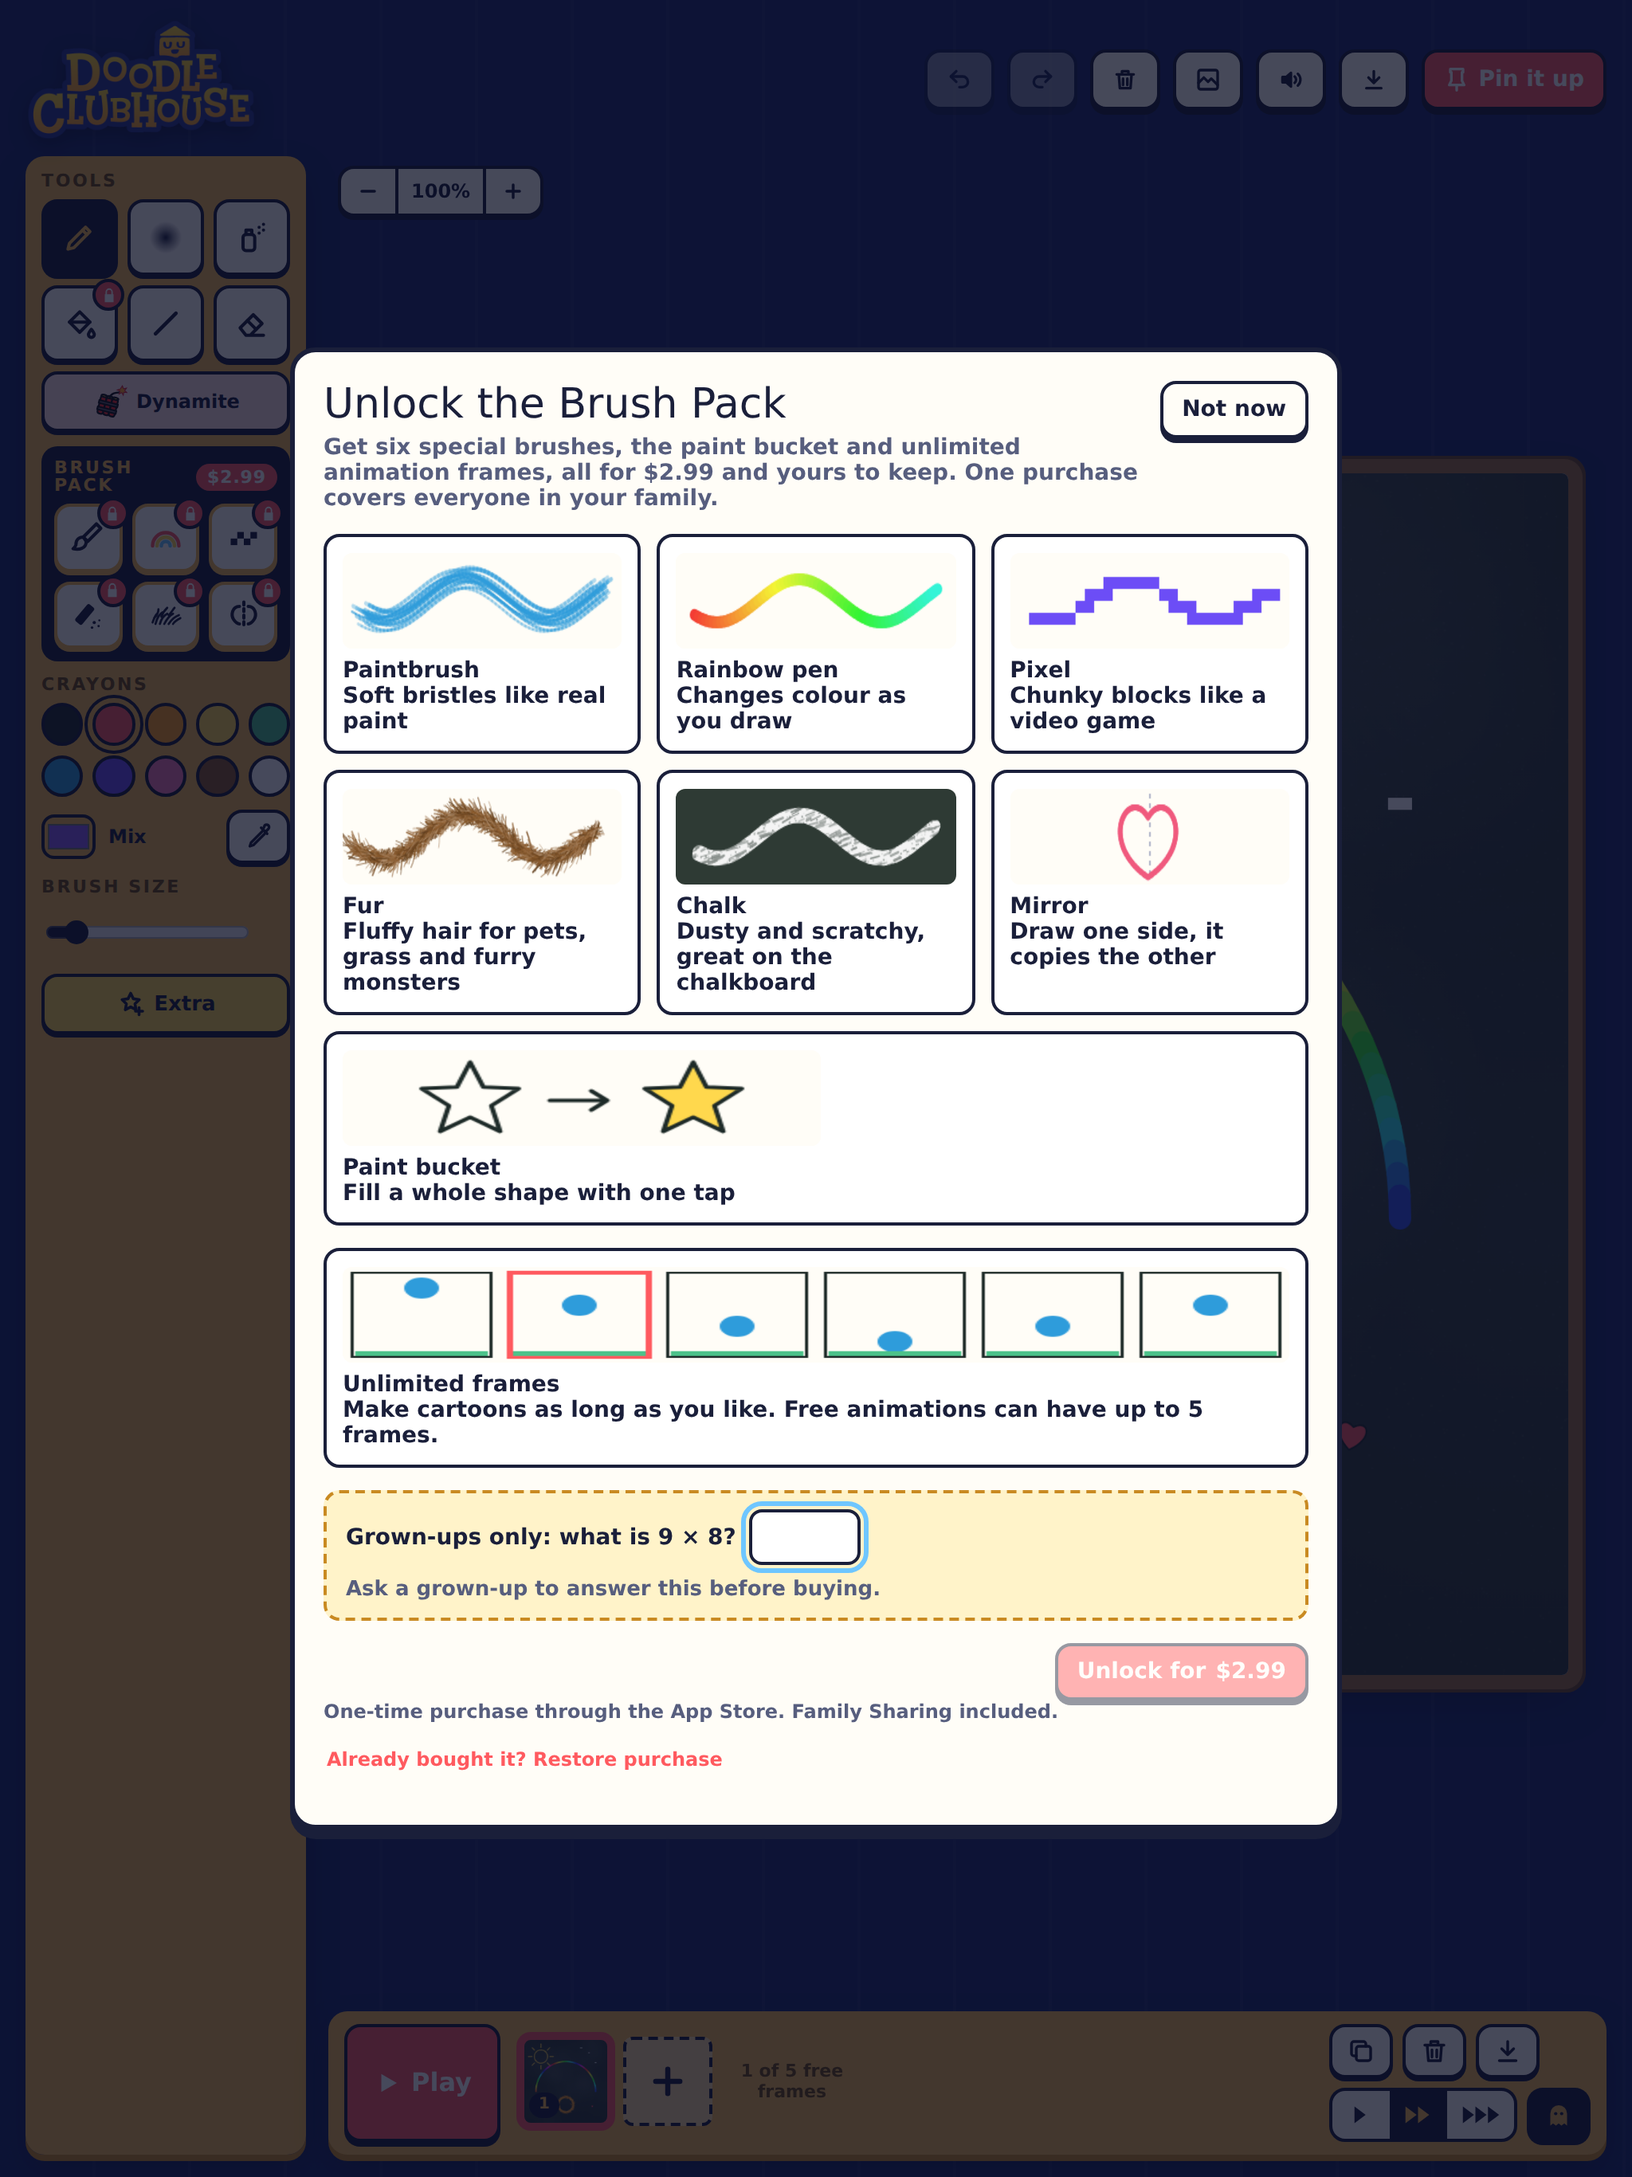
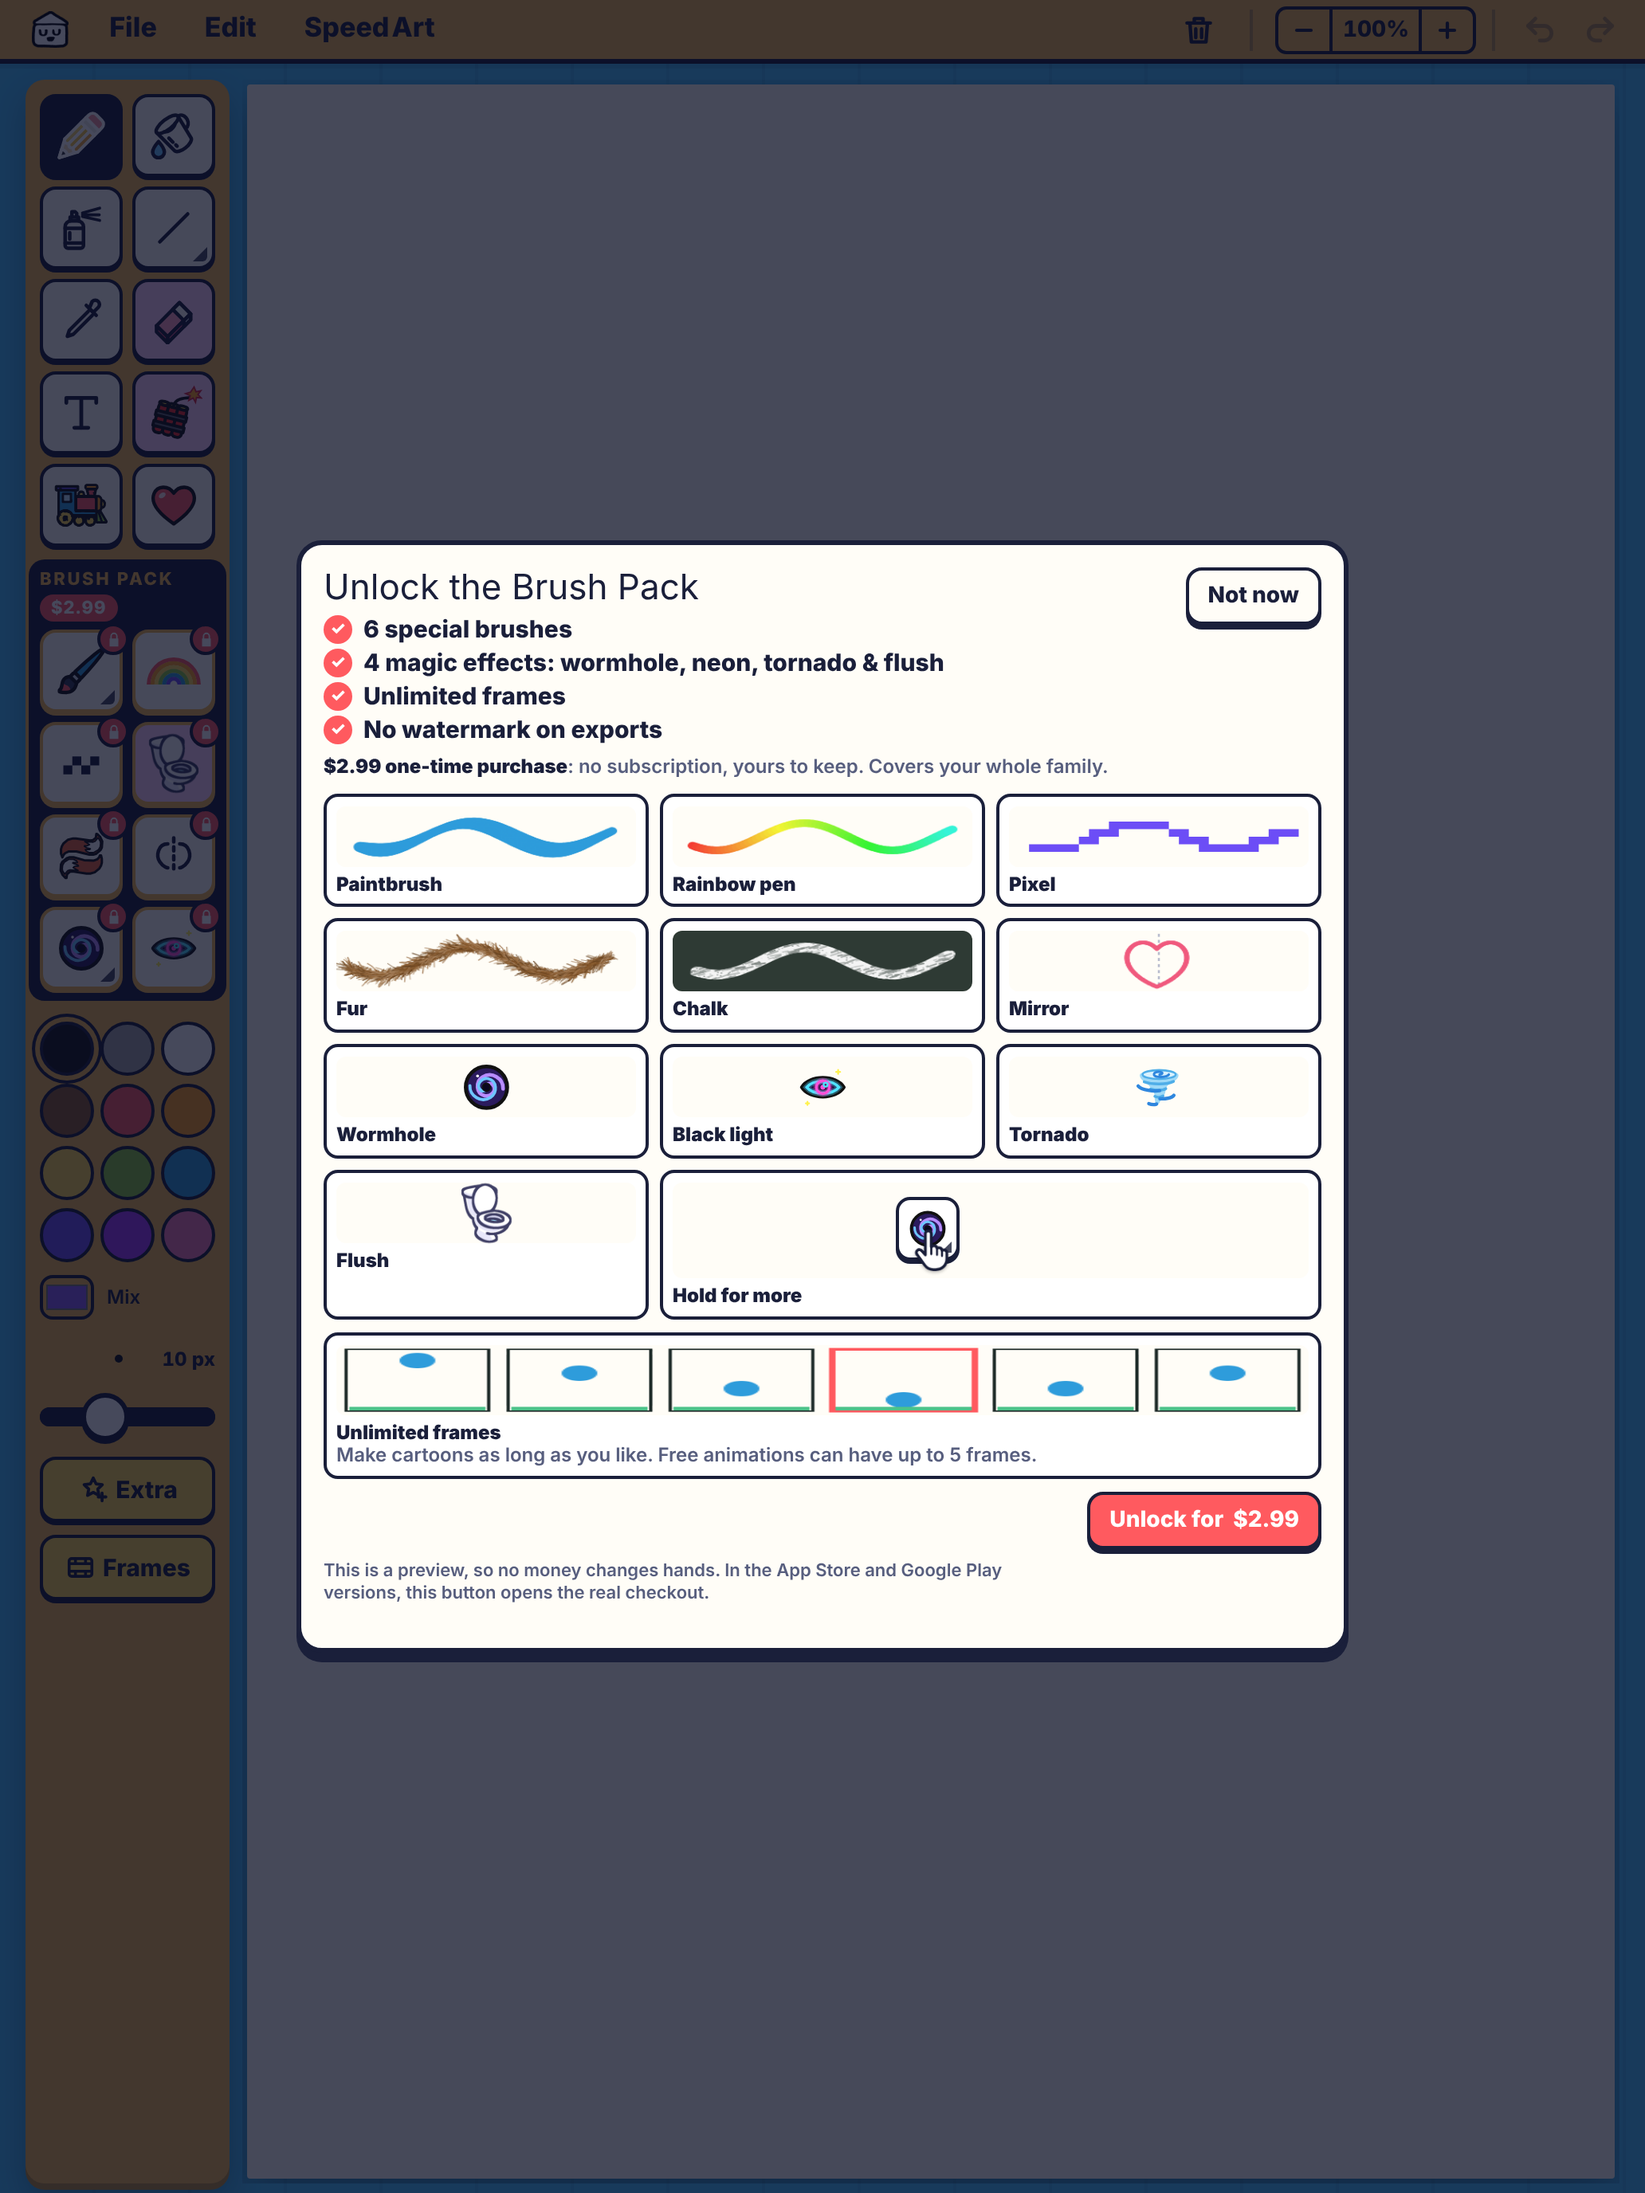
App Store listing for all ages, new screenshots and purchase review screenshot
Claude-Session: https://claude.ai/code/session_01QZ4DRegBmAdsTvPSvVEQXu

diff --git a/doodle-clubhouse-app/store/STORE-LISTING.md b/doodle-clubhouse-app/store/STORE-LISTING.md
@@ -5,67 +5,83 @@ Copy and paste these into App Store Connect.
 ## App information
 - **Name** (30 characters max): Doodle Clubhouse
 - **Subtitle** (30 max): Draw, doodle & animate
-- **Category:** Primary **Kids** (age band **6–8**), secondary **Entertainment**
+- **Category:** Primary **Entertainment**, secondary **Graphics & Design**. (Not the Kids category: the app is for all ages.)
 - **Bundle ID:** com.doodleclubhouse.app
 - **SKU:** doodleclubhouse001
 - **Content rights:** No third-party content.
-- **Age rating:** answer **None** to every question. The result should be **4+**.
+- **Age rating:** answer **None / No** to every question. The result should be **4+**.
   - Cartoon violence: **None**. Nothing is hurt; the dynamite only clears the page.
-  - Unrestricted web access: **No**. Contests: **No**. User-generated content shared with others: **No**.
+  - Unrestricted web access: **No**. User-generated content shared with other users: **No**. Messaging / chat: **No**.
+  - "Made for Kids": **No** (all ages).
 
 ## Promotional text (170 max, can be changed any time)
-Draw with glitter-bright crayons, stamp stickers, blow up your page with dynamite, and bring your doodles to life with flipbook animation!
+Draw, stamp stickers, lay train tracks, type in fun fonts, blow up your page with dynamite and turn your doodles into cartoons!
 
 ## Description
-Welcome to the Doodle Clubhouse, a cosy, colourful place for kids to draw, doodle and make their very first cartoons.
+Welcome to the Doodle Clubhouse: a cosy, colourful place to draw, doodle and make cartoons. Simple enough for kids, fun for everyone.
 
 DRAW ANYTHING
-• Pencil, soft airbrush, spray paint, straight lines and eraser
-• 10 bright crayons, a colour mixer and an eyedropper
-• Stickers: stars, hearts, flowers and smileys
-• Three papers: plain, lined notebook and chalkboard
+• Pencil, spray paint, paint bucket, eraser, straight lines and shapes
+• Bright crayons, a colour mixer and an eyedropper
+• Stamps: hearts, stars, flowers, a UFO with a little alien, planets, butterflies and more, in any colour
+• Train tracks: draw a track and a little train rides along it
+• Type words in 7 fun fonts, then move and turn them
+• Plain, notebook and chalkboard paper
 • Pinch to zoom in for tiny details
+• Works great with Apple Pencil
 
 BOOM! DYNAMITE ERASER
 Plant a stick of cartoon dynamite, watch the fuse fizz… and poof! A clean page. (Changed your mind? Undo brings it back.)
 
 MAKE CARTOONS
-• Frame-by-frame flipbook animation that's simple enough for little hands
+• Frame-by-frame flipbook animation
 • A "ghost" of the last frame helps you line things up
 • Play your cartoon slow, medium or fast
 
+SPEED ART
+Every stroke is recorded. Watch your whole drawing come together in a fast video, and save it to share.
+
 SAVE & SHARE
 • Save drawings as pictures, and animations as GIFs or videos
-• Pin your favourites to your own Wall of fame
+• Share to Photos, Messages, YouTube and more
+
+MAKE IT YOURS
+Change the colours of the menu bar, tool bar and background.
 
 BRUSH PACK (OPTIONAL, ONE-TIME PURCHASE)
-Six special brushes (Paintbrush, Rainbow, Pixel, Fur, Chalk and Mirror) plus the paint bucket and unlimited animation frames. Purchases are behind a grown-up check and work with Family Sharing.
+Six special brushes (Paintbrush, Rainbow, Pixel, Fur, Chalk and Mirror), four magic effects (Wormhole, Black light, Tornado and Flush), unlimited animation frames and no watermark. One purchase, yours to keep, and it works with Family Sharing.
 
-SAFE FOR KIDS
-• No ads, ever
+PRIVATE BY DESIGN
+• No ads
 • No accounts or sign-in
 • No tracking or data collection
 • Everything stays on your device
 
 ## Keywords (100 characters max, commas, no spaces)
-drawing,kids,doodle,paint,animation,flipbook,cartoon,sketch,coloring,art,chalkboard,crayons
+drawing,doodle,paint,animation,flipbook,cartoon,sketch,art,chalkboard,stamps,stickers,kids,family
 
 ## URLs
-- **Support URL** and **Privacy Policy URL:** the GitHub Pages address of `docs/index.html` (see LAUNCH-STEPS.md, step 6), e.g. `https://YOUR-GITHUB-NAME.github.io/doodle-clubhouse/`
+- **Support URL** and **Privacy Policy URL:** the GitHub Pages address of `docs/index.html` (see LAUNCH-STEPS.md, step 6), e.g. `https://YOUR-GITHUB-NAME.github.io/doodle-clubhouse-site/`
 
 ## App Privacy (the "nutrition label")
 - "Do you or your third-party partners collect data from this app?" **No.** The label will read **Data Not Collected**.
+  (The "Rate this app" box is Apple's own; the app doesn't collect anything for it.)
 
 ## In-app purchase
 - **Type:** Non-Consumable
 - **Reference name:** Brush Pack
 - **Product ID:** `brush_pack` (must match exactly; the app looks for this)
-- **Price:** USD $2.99 (Tier 3)
+- **Price:** USD $2.99
 - **Family Sharing:** On
 - **Display name:** Brush Pack
-- **Description** (55 max): 6 brushes, paint bucket and unlimited animation frames
-- **Review screenshot:** use `screenshots/review-unlock.png`
-- **Review notes:** "Tap any locked brush (or the paint bucket) to open the unlock screen. The grown-up question is a simple multiplication; the answer is shown in the question (e.g. 7 × 8 = 56)."
+- **Description** (55 max): Special brushes, magic effects, unlimited frames
+- **Review screenshot:** `screenshots/review-unlock.png`
+- **Review notes:** "Tap any locked brush in the Brush Pack box to open the unlock screen, then tap Unlock."
+
+## Screenshots
+- 6.9" iPhone slot: `screenshots/iphone-6.9in-1-stickers.png`, `-2-train.png`, `-3-chalkboard.png` (1320 × 2868)
+- 13" iPad slot: `screenshots/ipad-13in-1-stickers.png`, `-2-train.png`, `-3-chalkboard.png` (2064 × 2752)
+- Tip: your own screenshots from your iPad (with a real drawing of yours) will look even better.
 
 ## Notes for App Review
-Doodle Clubhouse is a kids' drawing and animation app with no accounts, ads, analytics or network features. Purchases and the share sheet are behind a parental gate (a multiplication question). The "Dynamite" tool is a playful cartoon eraser that clears the canvas; undo restores it.
+Doodle Clubhouse is an all-ages drawing and animation app with no accounts, ads, analytics or network features. The optional Brush Pack is a one-time in-app purchase (product ID brush_pack): tap any locked brush to see it, and "Restore purchase" is on the same screen. The "Dynamite" tool is a playful cartoon eraser that clears the canvas; undo restores it. The "Flush" effect is a cartoon toilet that flushes the drawing away (also undoable).

diff --git a/doodle-clubhouse-app/LAUNCH-STEPS.md b/doodle-clubhouse-app/LAUNCH-STEPS.md
@@ -58,7 +58,7 @@ Apple needs a public web address for your privacy policy and support. Private Gi
 3. To test buying without paying:
    - Create a tester under **Users and Access → Sandbox → Test Accounts**.
    - On your iPhone, sign in to it under **Settings → App Store → Sandbox Account**.
-4. Check drawing, stickers, dynamite, animation, Save/Share (after the grown-up question), buying the Brush Pack and **Restore purchase**.
+4. Check drawing, stamps, train tracks, Type, dynamite, animation, Speed Art, Save/Share, buying the Brush Pack and **Restore purchase**.
 5. If you can, ask someone with an **iPad** to test too.
 
 ## 8. Fill in the store page and submit
@@ -67,9 +67,9 @@ Apple needs a public web address for your privacy policy and support. Private Gi
 3. **Pricing and Availability:** Free.
 4. **Version 1.0 page:**
    - Paste the description, keywords, subtitle and promo text from `STORE-LISTING.md`.
-   - Upload `iphone-6.9in-*.png` to the 6.9" iPhone slot and `ipad-13in-*.png` to the 13" iPad slot.
+   - Upload the three `iphone-6.9in-*.png` to the 6.9" iPhone slot and the three `ipad-13in-*.png` to the 13" iPad slot.
    - Add the Support and Privacy URLs from step 6.
-   - Set Category to **Kids, 6–8**, and answer the age rating questions (all **None**).
+   - Set Category to **Entertainment** (secondary **Graphics & Design**), not Kids, and answer the age rating questions (all **None / No**) for a **4+** rating.
    - Choose the TestFlight build and tick the **Brush Pack** in-app purchase so it's reviewed with the app.
    - Paste the review notes from `STORE-LISTING.md`.
 5. **Add for Review → Submit.** Review usually takes 1–3 days.
